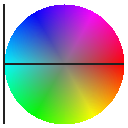
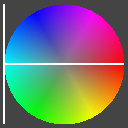
color wheel tests use new test theme
The color wheel no longer uses the deprecated `IconColor`.

diff --git a/dialog/color_wheel.go b/dialog/color_wheel.go
@@ -198,9 +198,9 @@ func (r *colorWheelRenderer) Refresh() {
 	} else {
 		r.Layout(s)
 	}
-	r.x.StrokeColor = theme.IconColor()
+	r.x.StrokeColor = theme.TextColor()
 	r.x.Refresh()
-	r.y.StrokeColor = theme.IconColor()
+	r.y.StrokeColor = theme.TextColor()
 	r.y.Refresh()
 	r.raster.Refresh()
 	canvas.Refresh(r.area)

diff --git a/dialog/color_wheel_test.go b/dialog/color_wheel_test.go
@@ -5,13 +5,11 @@ import (
 
 	"fyne.io/fyne"
 	"fyne.io/fyne/test"
-	"fyne.io/fyne/theme"
 )
 
 func Test_colorWheel_Layout(t *testing.T) {
 	test.NewApp()
 	defer test.NewApp()
-	test.ApplyTheme(t, theme.LightTheme())
 
 	wheel := newColorWheel(nil)
 	wheel.SetHSLA(180, 100, 50, 255)
